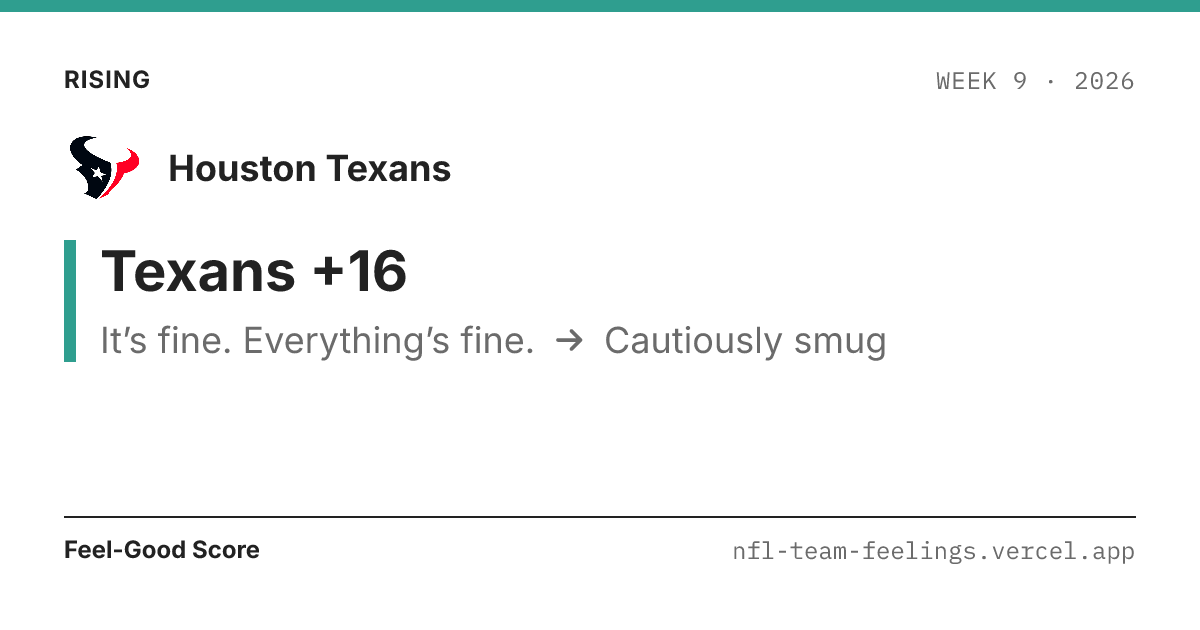
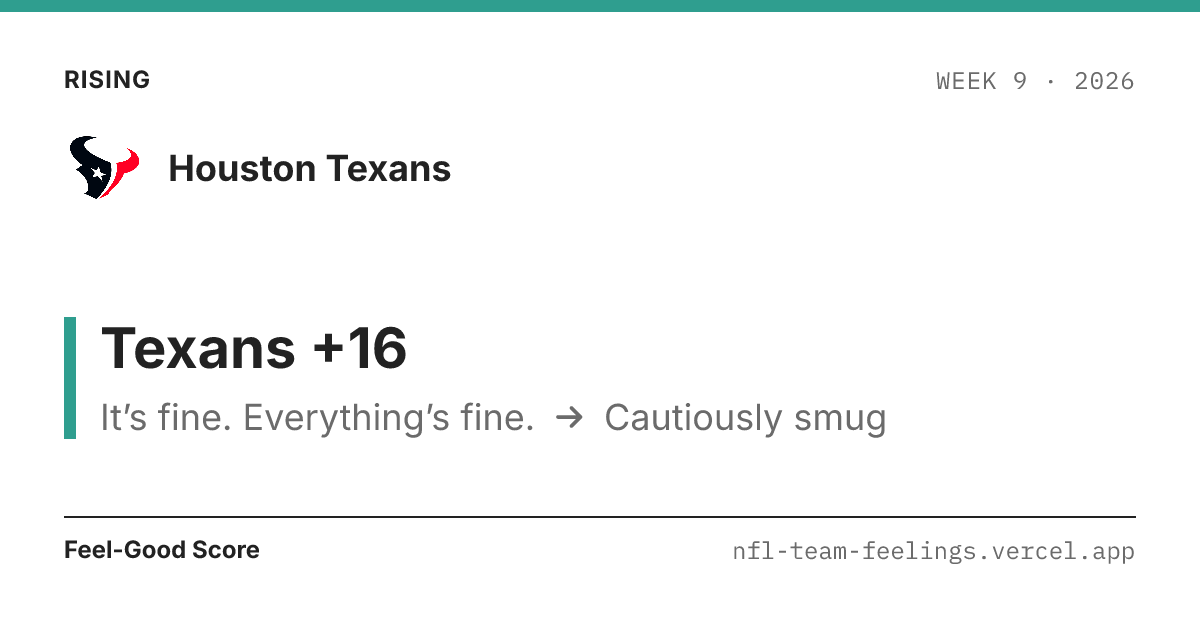
fix(14): UI review fixes 1-3 (callout description period, balanced callout layout, site-card line breaks)

diff --git a/web/src/lib/share.test.ts b/web/src/lib/share.test.ts
@@ -296,4 +296,9 @@ describe('share page meta copy', () => {
     const m = calloutShareMeta(worried, realMeta)
     expect(m.title).toBe('Cleveland Browns: 5-4, but you should feel worried')
   })
+
+  it('calloutShareMeta ends an unpunctuated (mover) detail with a period before the week', () => {
+    const mover = { ...joy, type: 'mover_down' as const, franchise: 'MIN', headline: 'Vikings −17', detail: 'Buying the jersey → Cautiously smug' }
+    expect(calloutShareMeta(mover, realMeta).description).toBe('Buying the jersey → Cautiously smug. Week 9 · 2026, on the Feel-Good Score.')
+  })
 })

diff --git a/web/src/lib/share.ts b/web/src/lib/share.ts
@@ -144,7 +144,8 @@ export function calloutShareMeta(
   const nick = eraNick(c.franchise, c.season, meta)
   return {
     title: headline.startsWith(nick) ? headline : `${name}: ${headline}`,
-    description: `${detail} ${wl} · ${c.season}, on the Feel-Good Score.`,
+    // UI review fix 1: mover details have no terminal period; add one so the week doesn't run on.
+    description: `${/[.?!]$/.test(detail) ? detail : `${detail}.`} ${wl} · ${c.season}, on the Feel-Good Score.`,
     imageAlt: `${name}: ${headline}. ${detail}`,
     linkName: name,
   }

diff --git a/.planning/phases/14-share-cards-launch-verification/14-UI-REVIEW.md b/.planning/phases/14-share-cards-launch-verification/14-UI-REVIEW.md
@@ -1,0 +1,39 @@
+---
+phase: 14
+reviewed: 2026-11-12
+baseline: 14-UI-SPEC.md
+overall_score: 20
+max_score: 24
+fixes_applied: [1, 2, 3]
+---
+
+# Phase 14 — UI Review
+
+**Overall: 20/24** (audited against 14-UI-SPEC.md from the 4 committed sample cards, built `dist/s/**` HTML and Svelte sources; auditor returned inline, orchestrator recorded it).
+
+| Pillar | Score | Key finding |
+|---|---|---|
+| Copywriting | 3/4 | Callout share description ran the mover detail into the week stamp (no separator) |
+| Visuals | 3/4 | Callout card top-heavy (~150px void on short claims); site card widows |
+| Color | 4/4 | Light tokens only, no accent/emoji on cards, stripe/tint as specified |
+| Typography | 3/4 | 4 sizes / 2 weights as contracted; site-card headline + dek widows |
+| Spacing | 4/4 | 64px safe area holds; 4px scale respected |
+| Experience Design | 3/4 | "Link copied" status is subtle and never clears (spec-mandated pattern from Phase 8/12) |
+
+## Top fixes
+
+1. **Callout description run-on** (WARNING, ~10 min). FIXED: `calloutShareMeta` appends a period when the detail lacks terminal punctuation; test added.
+2. **Callout card top-heavy** (WARNING, ~20 min). FIXED: callout body grows and the claim block centers in the free space (`og-template.mjs`); sample re-rendered.
+3. **Site-card widows** (WARNING, ~15 min). FIXED: explicit balanced line breaks for headline ("How should you feel / about your NFL team?") and dek; sample re-rendered.
+4. **Copy feedback subtle / never clears** (WARNING, ~20 min). DEFERRED: the status pattern is the shared Phase 8/12 contract (WR-05); changing it is a cross-page UX change, not a Phase 14 fix.
+5. **Mover alt text repetitive / unitless** ("Minnesota Vikings: Vikings −17. …") (WARNING, ~15 min). DEFERRED: low impact; candidate for a later copy pass.
+
+## Minor notes
+
+- Neutral band (mood-3 gray) stripe reads close to "unstyled" — palette-inherent.
+- Crawler-UA regex is a maintenance list (unknown JS-running previewers follow the redirect and show the site card).
+- Team-page button 1px `--border` outline < 3:1 non-text contrast — carried from Phase 12.
+
+## Verification after fixes
+
+`npm test` 365 passed, `npm run check` 0 errors, `npm run build` OK (45 cards in 0.69 s, 44 pages, largest 54 KB).
